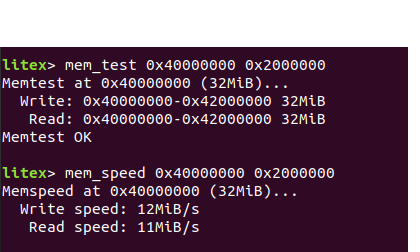
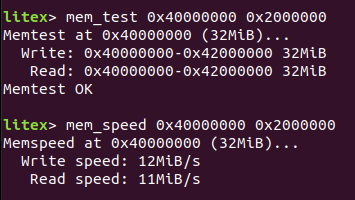
sdram mister deca

diff --git a/Projects/sdram_mister_deca/README.md b/Projects/sdram_mister_deca/README.md
@@ -17,7 +17,7 @@
 
 See full schematic [sdram_xs-SchDoc.pdf](sdram_xs-SchDoc.pdf) 
 
-See Kicad [files](.\kicad\).
+See Kicad folder.
 
 ![image-20210420203647994](schematic.png)
 
@@ -29,7 +29,7 @@ See Kicad [files](.\kicad\).
 
 * Cut pins in the stackable header that correspond to pins 12, 29, 30 from the SDRAM module. 
 * Solder external pins to the SDRAM module in pins 12, 29 & 30.
-* Plug SDRAM module into the stakable header and this into the P8 DECA connector
+* Plug SDRAM module into the stackable header and this into the P8 DECA connector.
 * Connect jumper wires at external soldered pins in 12, 29 & 30 according to schematic. It is important to connect at least one of the ground pins (I suggest pin 12) from SDRAM module to GND in P8 pins (1, 2).  Pin 29 (3V3) and pin 30 (GND) from SDRAM can be connected to P9 connector pins 3 (3V3) and 1 (GND).
 
 ### ![stackable-headers](stackable-headers.jpg)
@@ -44,7 +44,7 @@ See Kicad [files](.\kicad\).
 
 I tested the code with [Litex](https://github.com/enjoy-digital/litex). 
 
-If upstream Litex repo is not updated you can download and replace target and platform files from this [commit](https://github.com/hansfbaier/litex-boards/commit/6a85046e3381f0dc00edc71ffc7ab56b07bf6c1c) of Hans Baier 
+If upstream Litex repo is not updated you can download and replace target and platform files from this [commit](https://github.com/hansfbaier/litex-boards/commit/6a85046e3381f0dc00edc71ffc7ab56b07bf6c1c) of Hans Baier. 
 
 ```sh
 #Compile and load Litex for DECA board with Mister SDRAM option 
@@ -57,4 +57,6 @@ mem_test 0x40000000 0x2000000
 mem_speed 0x40000000 0x2000000
 ```
 
-![image-20210420205918412](litex.png)
+
+
+![image-20210420212040405](litex.png)
